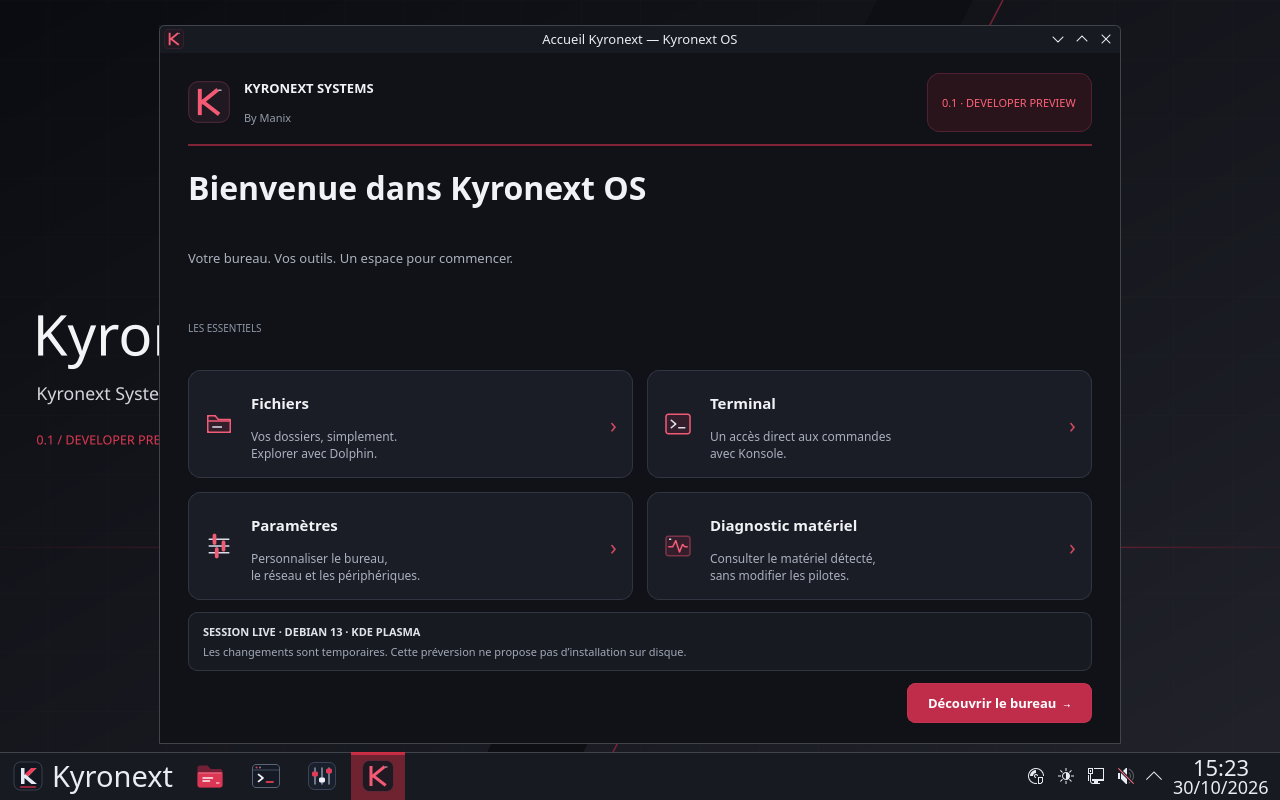
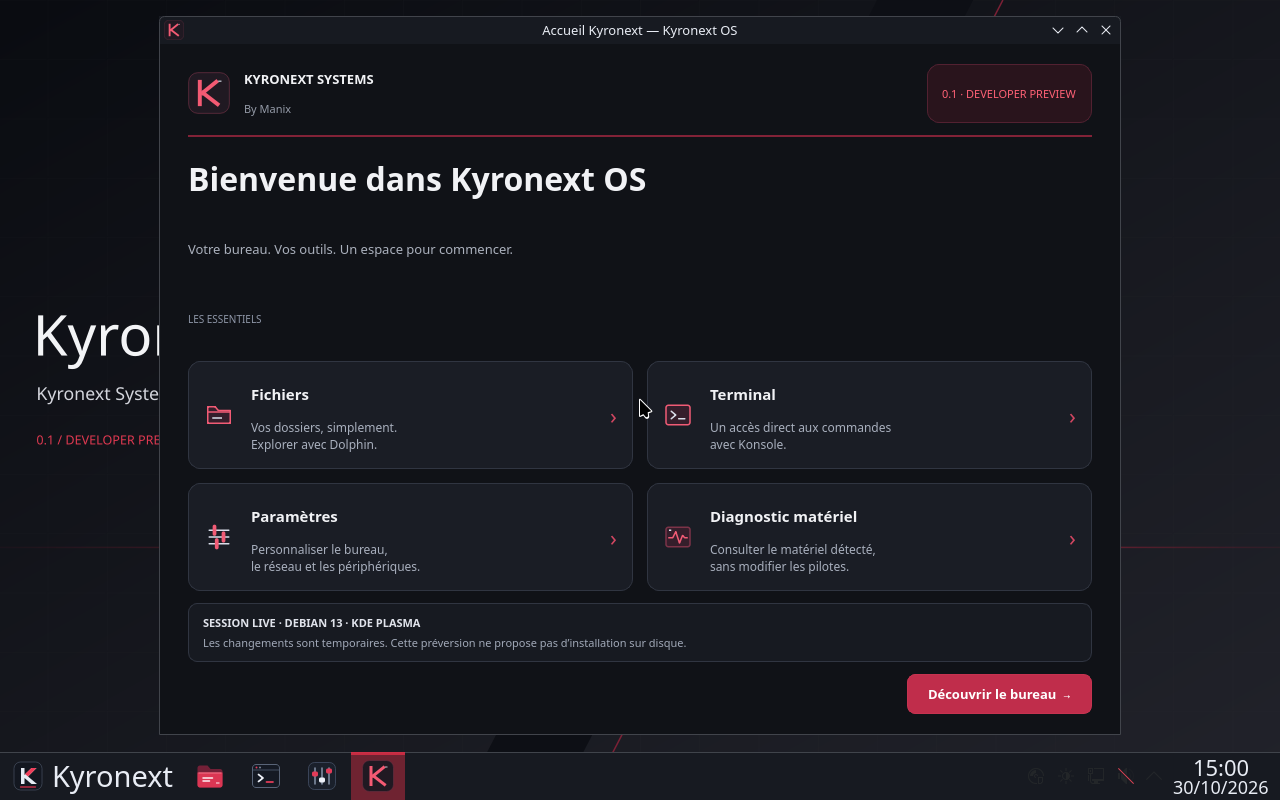
Offer the first public Kyronext OS Live download

diff --git a/client/public/kyronext-linux/index.html b/client/public/kyronext-linux/index.html
@@ -21,8 +21,8 @@
     <section class="facts" aria-label="Les fondations"><div><strong>Debian 13</strong><span>Base stable officielle</span></div><div><strong>KDE Plasma</strong><span>Un véritable bureau Linux</span></div><div><strong>AMD64</strong><span>PC Intel et AMD 64 bits</span></div><div><strong>Live</strong><span>Sans installateur actif</span></div></section>
     <section class="section"><p class="eyebrow">01 / CE QUI EXISTE</p><h2>Le fonctionnement avant les effets.</h2><div class="cards"><article><span class="number">01</span><h3>Un bureau utilisable</h3><p>Gestionnaire de fichiers Dolphin, terminal Konsole, paramètres KDE, réseau et commandes d’arrêt : des composants Linux éprouvés, réunis dans une première image ISO.</p></article><article><span class="number">02</span><h3>Une identité à vous</h3><p>Fond original, palette graphite et rouge, accueil Kyronext et panneau de lancement. Le bureau reste configurable dans les paramètres de KDE ; les animations peuvent être désactivées.</p></article><article><span class="number">03</span><h3>Tester avant d’adopter</h3><p>Le Live permet d’explorer le système sans l’installer. Le diagnostic matériel local aide à examiner les périphériques ; il ne garantit pas à lui seul leur compatibilité.</p></article></div></section>
     <section class="section identity"><div><p class="eyebrow">02 / L’INSPIRATION</p><h2>Kyronext OS.<br>Son propre nom, sa propre route.</h2></div><div><p>Notre passion pour les ordinateurs de bord des années 1980 nourrit cette création. Le nom officiel reste <strong>Kyronext OS</strong> : ce projet indépendant n’est ni un produit officiel Knight Rider, ni affilié à ses ayants droit.</p><p>Un thème personnel ne change pas les droits sur les marques, voitures, images, sons ou voix de tiers. Les éléments inspirés de la série présents dans les essais privés ne sont pas proposés ici au téléchargement public. L’interface et les créations originales Kyronext gardent leur propre identité.</p></div></section>
-    <section class="section" id="essayer"><p class="eyebrow">03 / ESSAYER EN CONNAISSANCE DE CAUSE</p><h2>Une première étape concrète.</h2><div class="release"><div><span class="badge">PRÉVERSION DE DÉVELOPPEMENT</span><h3>Kyronext OS 0.1 · AMD64</h3><p>L’ISO locale a été produite et son empreinte vérifiée. Le bureau de la révision finale a démarré en UEFI ; le BIOS a été validé sur la révision précédente. Cela ne certifie aucun ordinateur physique.</p><p><strong>L’ISO publique n’est pas encore proposée.</strong> La préparation d’une édition redistribuable et de sa publication reste à terminer. Aucun bouton ne prétend télécharger un fichier qui n’est pas hébergé.</p><div class="actions"><a class="button primary" href="fiche-technique.txt" download>Télécharger la fiche technique</a><a class="button" href="https://kyronext.eu/kyronext-os/">Voir la page Kyronext ↗</a></div></div><aside><h3>À savoir avant tout</h3><ul><li>Live uniquement : aucun installateur sur disque actif.</li><li>Aucun modèle d’IA locale inclus.</li><li>Pas de promesse de Secure Boot ou de chiffrement intégré.</li><li>Wi-Fi, audio et GPU physiques restent à tester machine par machine.</li><li>Ne remplace pas encore votre système principal.</li></ul></aside></div></section>
-    <section class="section"><p class="eyebrow">04 / LA SUITE</p><h2>Une base solide, puis davantage.</h2><p class="lead">Étendre les tests matériels, préparer une édition publique, étudier un bureau léger et un installateur validé. Le Cockpit et l’assistant IA local restent des évolutions prévues : ils ne sont pas annoncés comme opérationnels.</p></section>
+    <section class="section" id="essayer"><p class="eyebrow">03 / ESSAYER EN CONNAISSANCE DE CAUSE</p><h2>Une première étape concrète.</h2><div class="release"><div><span class="badge">PRÉVERSION DE DÉVELOPPEMENT</span><h3>Kyronext OS 0.1 · AMD64</h3><p>La première ISO publique est disponible : <strong>1,63 Go</strong>, avec le bureau KDE et l’identité originale Kyronext. Cette révision a atteint le bureau en BIOS dans QEMU et en UEFI dans VirtualBox. Ces essais ne certifient aucun ordinateur physique.</p><p>Cette édition publique ne contient pas les illustrations KITT/KARR des essais personnels. Le bureau reste personnalisable dans KDE.</p><div class="actions"><a class="button primary" href="https://github.com/on3egs/kyronext-os/releases/download/v0.1-developer-preview/Kyronext-OS-0.1-amd64.iso">Télécharger l’ISO AMD64 ↓</a><a class="button" href="https://github.com/on3egs/kyronext-os/releases/download/v0.1-developer-preview/SHA256SUMS">Empreinte SHA-256</a><a class="button" href="fiche-technique.txt" download>Fiche technique</a><a class="button" href="https://kyronext.eu/kyronext-os/">Voir la page Kyronext ↗</a></div><p class="small">Révision publique : 20261030T143045Z-branding-final · 1 634 861 056 octets.<br>SHA-256 : <code>91d8238d4eb33686b9674981dabf828fafb97f8e9d4d2319b019486e59508c85</code></p><p class="small">Pour créer une clé Live, sélectionnez cette ISO dans votre outil USB. L’écriture efface la clé choisie ; vérifiez le périphérique. Aucun installateur sur disque n’est actif.</p></div><aside><h3>À savoir avant tout</h3><ul><li>Live uniquement : aucun installateur sur disque actif.</li><li>Aucun modèle d’IA locale inclus.</li><li>Pas de promesse de Secure Boot ou de chiffrement intégré.</li><li>Wi-Fi, audio et GPU physiques restent à tester machine par machine.</li><li>Ne remplace pas encore votre système principal.</li></ul></aside></div></section>
+    <section class="section"><p class="eyebrow">04 / LA SUITE</p><h2>Une base solide, puis davantage.</h2><p class="lead">Étendre les tests matériels de cette première édition publique, étudier un bureau léger et un installateur validé. Le Cockpit et l’assistant IA local restent des évolutions prévues : ils ne sont pas annoncés comme opérationnels.</p></section>
   </main>
   <footer><span>Kyronext Systems — By Manix</span><a href="/outils">Retour aux créations KITT Franco-Belge ↑</a></footer>
   <script src="presentation.js" defer></script>

diff --git a/client/public/kyronext-linux/style.css b/client/public/kyronext-linux/style.css
@@ -1,1 +1,2 @@
 :root{color-scheme:dark;--bg:#0b0d11;--panel:#15181f;--line:#303641;--text:#f2f4f7;--muted:#aeb6c3;--red:#ee375b}*{box-sizing:border-box}html{scroll-behavior:smooth}body{margin:0;background:var(--bg);color:var(--text);font-family:Inter,Segoe UI,Arial,sans-serif;line-height:1.65}a{color:inherit;text-underline-offset:5px}button,a{touch-action:manipulation}button,.button{font:inherit}header,main,footer{max-width:1240px;margin:auto;padding-left:32px;padding-right:32px}header{display:flex;justify-content:space-between;gap:24px;align-items:center;padding-top:26px;padding-bottom:26px;border-bottom:1px solid var(--line)}.brand{font-size:20px;letter-spacing:.08em;text-decoration:none;font-weight:800}.brand span{font-size:11px;color:var(--muted);display:block}nav{display:flex;gap:24px;font-size:13px}.hero{padding-top:78px}.eyebrow{font-size:11px;font-weight:700;letter-spacing:.19em;color:var(--muted)}.dot{display:inline-block;width:7px;height:7px;background:var(--red);border-radius:50%;margin-right:10px}.version{font-size:11px;letter-spacing:.15em;color:var(--red);margin-top:38px}h1{font-size:clamp(48px,7.5vw,96px);line-height:1.05;letter-spacing:-.055em;font-weight:650;margin:24px 0}h1 span{color:var(--red)}h2{font-size:clamp(30px,4vw,49px);line-height:1.17;letter-spacing:-.035em;margin:20px 0 32px}h3{font-size:20px;line-height:1.3}.lead{max-width:770px;font-size:19px;color:var(--muted)}.actions{display:flex;flex-wrap:wrap;gap:12px;margin:28px 0 10px}.button,button{padding:13px 20px;border:1px solid #454c58;background:transparent;border-radius:7px;color:var(--text);text-decoration:none;cursor:pointer;display:inline-flex;align-items:center;justify-content:center;font-size:14px;gap:18px}.primary{background:#c52647;border-color:#c52647;font-weight:650}.button:hover,button:hover{border-color:var(--red)}:focus-visible{outline:3px solid #ffd1da;outline-offset:5px}button:disabled{opacity:.45;cursor:default}.small,figcaption{color:var(--muted);font-size:12px}figure{margin:40px 0 0}figure img{display:block;width:100%;height:auto;border:1px solid var(--line);border-radius:12px}figcaption{margin:12px 0}.facts{display:grid;grid-template-columns:repeat(4,1fr);gap:20px;padding:37px 0;border-bottom:1px solid var(--line)}.facts strong,.facts span{display:block}.facts strong{font-size:20px}.facts span{font-size:12px;color:var(--muted)}.section{padding:66px 0;border-bottom:1px solid var(--line)}.cards{display:grid;grid-template-columns:repeat(3,1fr);gap:20px}.cards article{background:var(--panel);border:1px solid var(--line);padding:28px;border-radius:10px}.number{font-size:12px;color:var(--red)}.cards p,.identity p,.release p,li{color:var(--muted);font-size:15px}.identity{display:grid;grid-template-columns:1fr 1fr;gap:60px}.release{display:grid;grid-template-columns:1.4fr 1fr;border:1px solid var(--line);border-radius:12px;overflow:hidden}.release>div,.release aside{padding:30px}.release aside{background:var(--panel);border-left:1px solid var(--line)}.badge{display:inline-block;padding:5px 9px;color:#ff93a9;background:#36151e;border:1px solid #672537;border-radius:4px;font-size:10px;letter-spacing:.08em}ul{padding-left:20px}li{margin-bottom:11px}footer{display:flex;justify-content:space-between;gap:20px;padding-top:30px;padding-bottom:40px;color:var(--muted);font-size:12px}@media(max-width:720px){header,main,footer{padding-left:20px;padding-right:20px}header{align-items:flex-start}nav{flex-direction:column;gap:6px;text-align:right}.hero{padding-top:45px}.lead{font-size:17px}.facts{grid-template-columns:1fr 1fr}.cards,.identity,.release{grid-template-columns:1fr}.identity{gap:10px}.release aside{border-left:0;border-top:1px solid var(--line)}.section{padding:45px 0}footer{flex-direction:column}.actions>*{width:100%}}@media(prefers-reduced-motion:reduce){html{scroll-behavior:auto}}
+.release code{overflow-wrap:anywhere}

diff --git a/client/public/kyronext-linux/presentation.js b/client/public/kyronext-linux/presentation.js
@@ -12,7 +12,7 @@
   const reset = message => { current = undefined; read.disabled = false; stop.disabled = true; status.textContent = message; };
   read.addEventListener('click', () => {
     synth.cancel();
-    const utterance = new SpeechSynthesisUtterance('Découvrez Kyronext OS, une création Kyronext Systems, By Manix. C’est une véritable distribution Linux Live, basée sur Debian 13 avec le bureau KDE Plasma. La version 0.1 Developer Preview démarre sur un PC virtuel AMD 64 bits et présente une interface graphite et rouge personnalisable. Le nom officiel reste Kyronext OS. Ce projet indépendant n’est pas affilié à Knight Rider. L’image publique n’est pas encore disponible. Vous pouvez télécharger la fiche technique sur cette page. Cette préversion ne propose aucun installateur actif ni modèle d’intelligence artificielle. La compatibilité des ordinateurs physiques doit être testée individuellement.');
+    const utterance = new SpeechSynthesisUtterance('Découvrez Kyronext OS, une création Kyronext Systems, By Manix. C’est une véritable distribution Linux Live, basée sur Debian 13 avec le bureau KDE Plasma. La version 0.1 Developer Preview démarre sur un PC virtuel AMD 64 bits et présente une interface graphite et rouge personnalisable. Le nom officiel reste Kyronext OS. Ce projet indépendant n’est pas affilié à Knight Rider. La première image publique est disponible au téléchargement, avec son empreinte SHA 256 et sa fiche technique. Cette édition conserve les créations originales Kyronext, sans les illustrations KITT et KARR des essais privés. Cette préversion ne propose aucun installateur actif ni modèle d’intelligence artificielle. La compatibilité des ordinateurs physiques doit être testée individuellement.');
     utterance.lang = 'fr-FR'; utterance.rate = 0.96;
     const voices = synth.getVoices();
     utterance.voice = voices.find(v => v.lang.toLowerCase().startsWith('fr') && v.localService) || voices.find(v => v.lang.toLowerCase().startsWith('fr')) || null;
